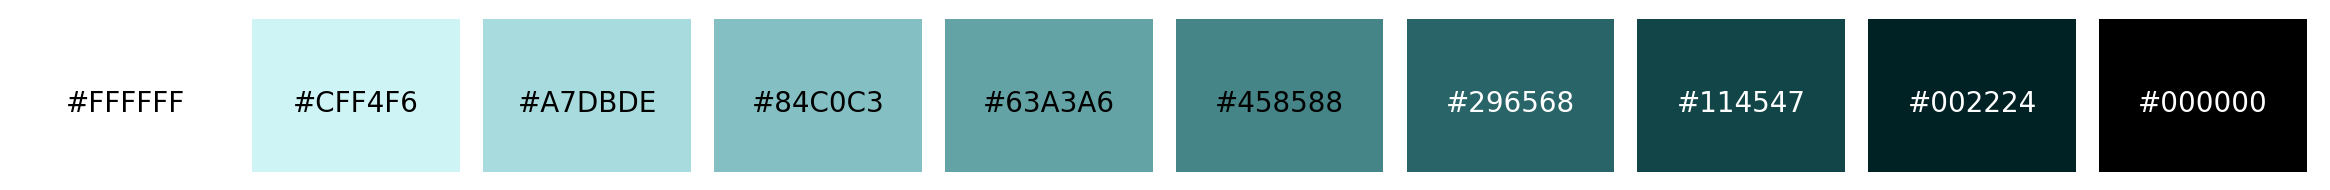
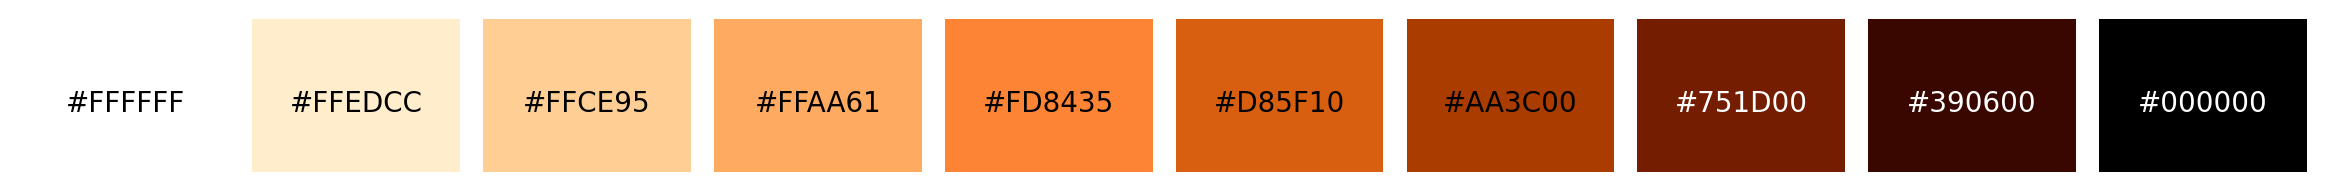
update images

diff --git a/README.md b/README.md
@@ -37,14 +37,14 @@ Mode "superellipse" defines the path from black to white. Higher degree produces
 
 ```
 # Seed color
-color = '#458588'
+color = '#D65D0E'
 
-colors = excolor.generate_palette(color, mode='superellipse', power=3)
+colors = excolor.generate_palette(color, mode='superellipse', power=2)
 
 excolor.show_colors(colors)
 ```
 
-`['#FFFFFF', '#CFF4F6', '#A7DBDE', '#84C0C3', '#63A3A6', '#458588', '#296568', '#114547', '#002224', '#000000']`<br>
+`['#FFFFFF', '#FFEDCC', '#FFCE95', '#FFAA61', '#FD8435', '#D85F10', '#AA3C00', '#751D00', '#390600', '#000000']`<br>
 ![](https://github.com/timpyrkov/excolor/blob/master/img/palette.png?raw=true)
 
 ```
@@ -54,17 +54,17 @@ primary_colors = excolor.generate_primary_palette(color)
 excolor.show_colors(primary_colors)
 ```
 
-`/* Kumutoto color palette */`<br>
+`/* Pastel Orange color palette */`<br>
 `:root {`<br>
-`  --primary-color-1: #DBFFFF;`<br>
-`  --primary-color-2: #BBF0F3;`<br>
-`  --primary-color-3: #A0DCDF;`<br>
-`  --primary-color-4: #88C6C9;`<br>
-`  --primary-color-5: #70B0B3;`<br>
-`  --primary-color-6: #599A9C;`<br>
-`  --primary-color-7: #438386;`<br>
-`  --primary-color-8: #2D6C6F;`<br>
-`  --primary-color-9: #175558;`<br>
+`  --primary-color-1: #FFF8DD;`<br>
+`  --primary-color-2: #FFE8B4;`<br>
+`  --primary-color-3: #FFCF8B;`<br>
+`  --primary-color-4: #FFB266;`<br>
+`  --primary-color-5: #FF9547;`<br>
+`  --primary-color-6: #F2792A;`<br>
+`  --primary-color-7: #D55C0D;`<br>
+`  --primary-color-8: #B74000;`<br>
+`  --primary-color-9: #942500;`<br>
 `}`<br>
 ![](https://github.com/timpyrkov/excolor/blob/master/img/palette_primary.png?raw=true)
 
@@ -76,39 +76,39 @@ background_colors = excolor.generate_background_palette(color)
 excolor.show_colors(background_colors)
 ```
 
-`/* Cyprus color palette */`<br>
+`/* Reddy Brown color palette */`<br>
 `:root {`<br>
-`  --background-color-1: #2D6C6F;`<br>
-`  --background-color-2: #226063;`<br>
-`  --background-color-3: #175558;`<br>
-`  --background-color-4: #0D494C;`<br>
-`  --background-color-5: #043D3F;`<br>
-`  --background-color-6: #003033;`<br>
-`  --background-color-7: #002426;`<br>
-`  --background-color-8: #001618;`<br>
-`  --background-color-9: #00090A;`<br>
+`  --background-color-1: #B74000;`<br>
+`  --background-color-2: #A63200;`<br>
+`  --background-color-3: #942500;`<br>
+`  --background-color-4: #801800;`<br>
+`  --background-color-5: #6B0D00;`<br>
+`  --background-color-6: #540400;`<br>
+`  --background-color-7: #3D0000;`<br>
+`  --background-color-8: #270000;`<br>
+`  --background-color-9: #130000;`<br>
 `}`<br>
 ![](https://github.com/timpyrkov/excolor/blob/master/img/palette_background.png?raw=true)
 
 
 ```
-# Generate palette for primary CSS colors
+# Generate palette for foreground CSS colors
 foreground_colors = excolor.generate_foreground_palette(color)
 
 excolor.show_colors(foreground_colors)
 ```
 
-`/* Blizzard Blue color palette */`<br>
+`/* Circus color palette */`<br>
 `:root {`<br>
-`  --foreground-color-1: #EDFFFF;`<br>
-`  --foreground-color-2: #DBFFFF;`<br>
-`  --foreground-color-3: #CAFAFC;`<br>
-`  --foreground-color-4: #BBF0F3;`<br>
-`  --foreground-color-5: #ADE6E9;`<br>
-`  --foreground-color-6: #A0DCDF;`<br>
-`  --foreground-color-7: #94D1D4;`<br>
-`  --foreground-color-8: #88C6C9;`<br>
-`  --foreground-color-9: #7CBBBE;`<br>
+`  --foreground-color-1: #FFFCEF;`<br>
+`  --foreground-color-2: #FFF8DD;`<br>
+`  --foreground-color-3: #FFF2CA;`<br>
+`  --foreground-color-4: #FFE8B4;`<br>
+`  --foreground-color-5: #FFDC9F;`<br>
+`  --foreground-color-6: #FFCF8B;`<br>
+`  --foreground-color-7: #FFC078;`<br>
+`  --foreground-color-8: #FFB266;`<br>
+`  --foreground-color-9: #FFA456;`<br>
 `}`<br>
 ![](https://github.com/timpyrkov/excolor/blob/master/img/palette_foreground.png?raw=true)
 
@@ -126,9 +126,9 @@ plt.imshow(img)
 plt.axis("off")
 plt.show()
 
-# Colorize and show image
-green, blue = "#CAC94C", "#226063"
-img = excolor.colorize_image(url, green, blue)
+# Colorize image
+light, dark = "#FBF1C6", "#665C54"
+img = excolor.colorize_image(url, dark, light)
 
 # Show colorized image
 plt.figure(figsize=(6,6), facecolor="#00000000")
@@ -159,7 +159,7 @@ plt.show()
 # Convert to greyscale
 greyscaled = excolor.greyscale_image(url)
 
-# Show colorized image
+# Show greyscale image
 plt.figure(figsize=(6,6), facecolor="#00000000")
 plt.imshow(greyscaled)
 plt.axis("off")
@@ -181,7 +181,7 @@ print("Greyscaled image array shape:", np.asarray(greyscaled).shape)
 ```
 url = "https://github.com/timpyrkov/excolor/blob/master/img/image_gruvbox.png?raw=true"
 
-# Load image from url (image_color.png from github repository)
+# Load image from url (image_gruvbox.png from github repository)
 img = excolor.load_image(url)
 
 # Show source image
@@ -193,7 +193,7 @@ plt.show()
 # Convert to low-polygonal image
 img = excolor.triangle_wallpaper(img=img, density=30, distortion=0.4, size=(640,480))
 
-# Sjow low-polygonal image
+# Show low-polygonal image
 plt.figure(figsize=(6,6), facecolor="#00000000")
 plt.imshow(img)
 plt.axis("off")
